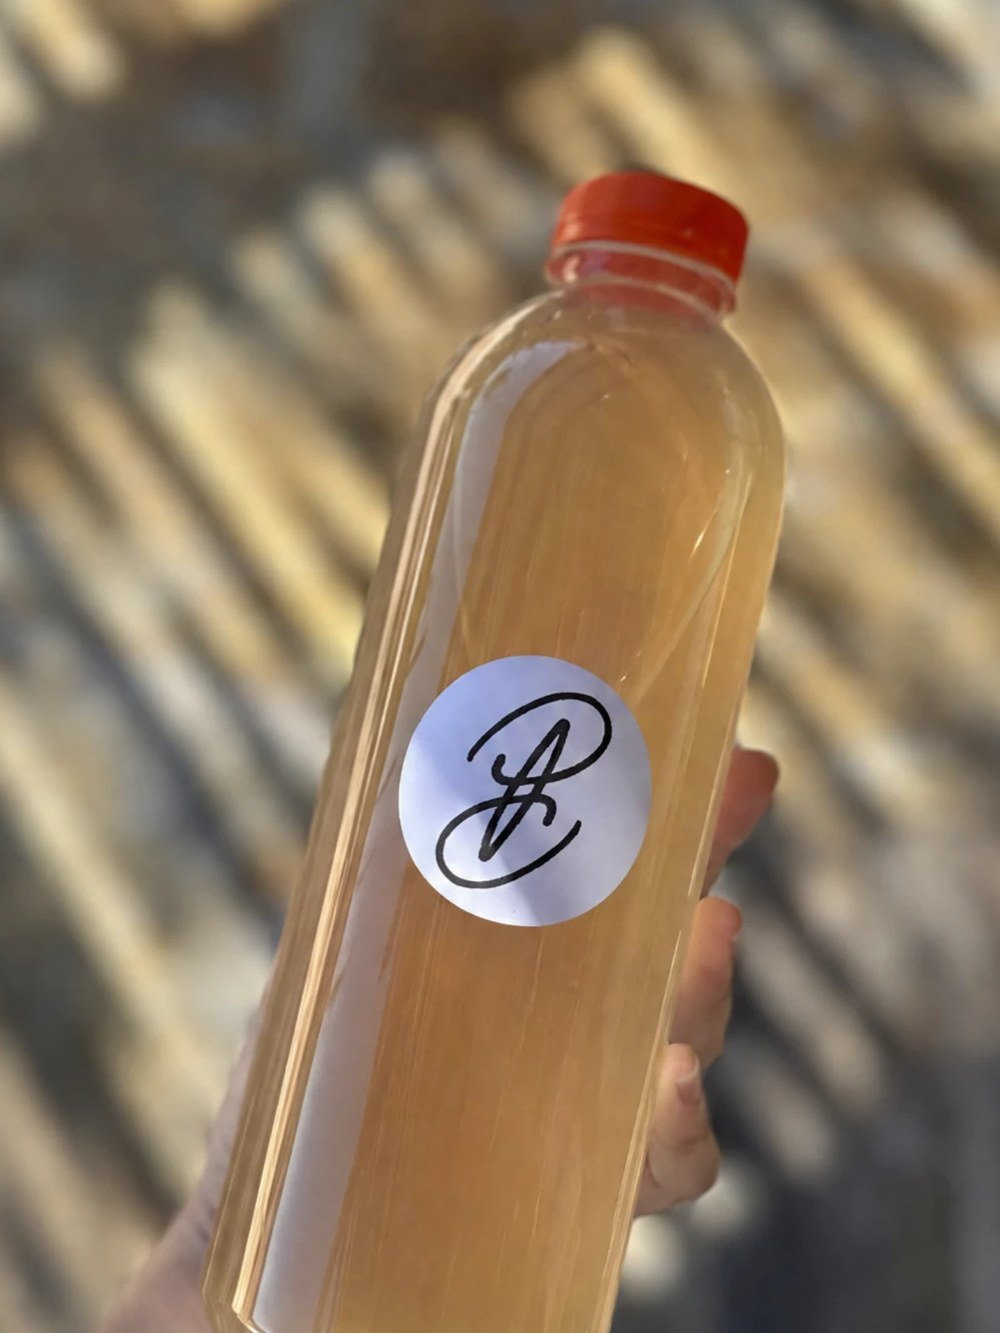
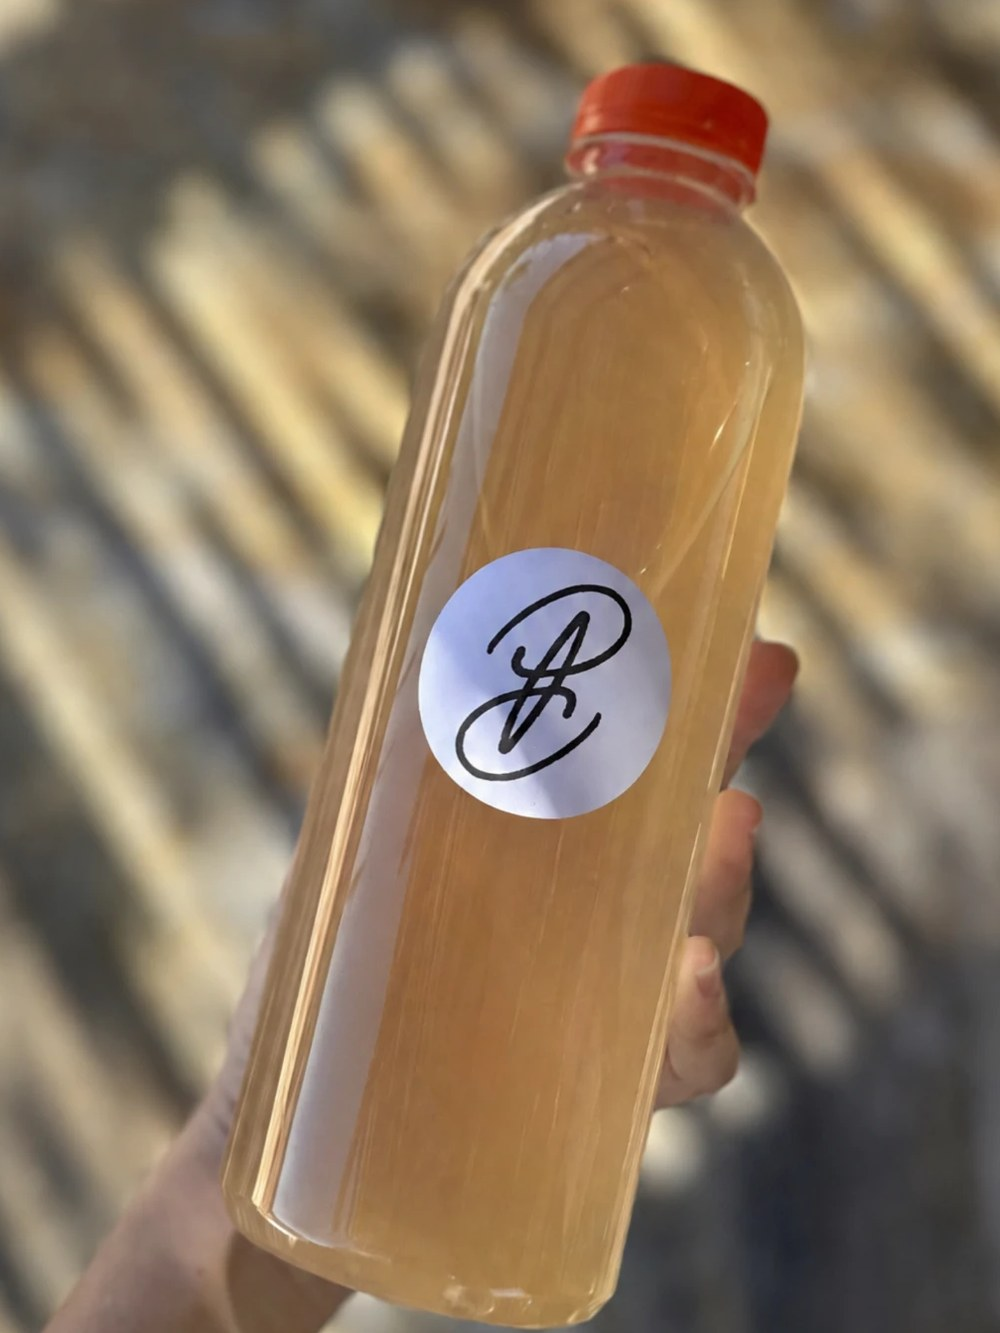
Alignement de la photo du thé glacé avec la citronnade

diff --git a/index.html b/index.html
@@ -750,8 +750,8 @@
           <p class="drinks-intro reveal">Nos boissons sont préparées artisanalement à partir de produits frais, sans additifs ni conservateurs. Réalisées en petite production pour préserver la fraîcheur des ingrédients, elles sont à consommer rapidement.</p>
           <ul class="grid duo small">
           <li class="reveal">
-            <button class="pcard" type="button" aria-haspopup="dialog" data-title="Infusion glacée maison 1L" data-img="images/infusion-glacee-photo.jpg?v=1794508114">
-              <span class="pimg"><img src="images/infusion-glacee-photo.jpg?v=1794508114" alt="Infusion glacée maison 1L" loading="lazy"><span class="plus" aria-hidden="true"><svg viewBox="0 0 24 24" width="16" height="16" fill="none" stroke="currentColor" stroke-width="1.8"><path d="M12 5v14M5 12h14"/></svg></span></span>
+            <button class="pcard" type="button" aria-haspopup="dialog" data-title="Infusion glacée maison 1L" data-img="images/infusion-glacee-photo.jpg?v=1794508229">
+              <span class="pimg"><img src="images/infusion-glacee-photo.jpg?v=1794508229" alt="Infusion glacée maison 1L" loading="lazy"><span class="plus" aria-hidden="true"><svg viewBox="0 0 24 24" width="16" height="16" fill="none" stroke="currentColor" stroke-width="1.8"><path d="M12 5v14M5 12h14"/></svg></span></span>
               <span class="pmeta">
                 <span class="ptag">Boisson maison</span>
                 <span class="pname">Infusion glacée maison 1L</span>
